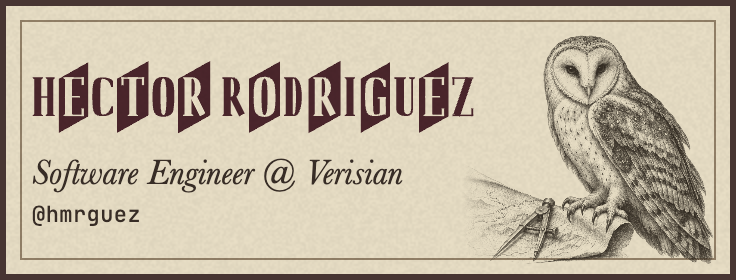
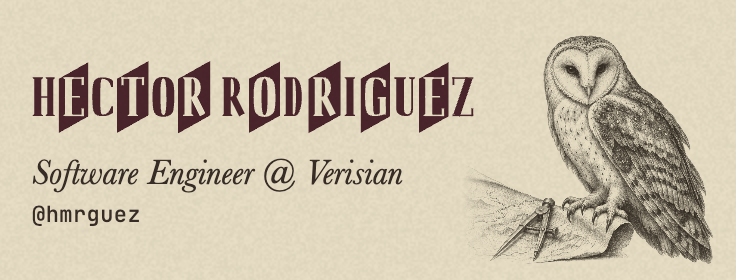
Remove the masthead frame on desktop and mobile

Changed region(s): [[0.0, 0.0, 1.0, 1.0]]

diff --git a/profile/cards.css b/profile/cards.css
@@ -53,22 +53,19 @@ h2 {
 .mast {
   height:204px;
   background:#e9dfc6;
-  padding:23px 31px;
-  border:5px solid #473532;
+  padding:28px 36px;
+  border:0;
 }
-.mast:before {
-  content:'';
-  position:absolute;
-  inset:7px;
-  border:1px solid #938168;
+.mast:after {
+  background-position:5px 5px;
 }
 .mast .owl {
   position:absolute;
   height:180px;
   width:294px;
   object-fit:contain;
-  right:20px;
-  bottom:9px;
+  right:25px;
+  bottom:14px;
 }
 .name {
   width:435px;
@@ -272,8 +269,10 @@ h2 {
 }
 .mast.mob {
   height:140px;
-  padding:21px 13px;
-  border-width:3px;
+  padding:24px 16px;
+}
+.mast.mob:after {
+  background-position:3px 3px;
 }
 .mast.mob .name {
   width:221px;
@@ -282,8 +281,8 @@ h2 {
 .mast.mob .owl {
   height:115px;
   width:131px;
-  right:3px;
-  bottom:5px;
+  right:6px;
+  bottom:8px;
   object-fit:cover;
   object-position:69%;
   mask-image:linear-gradient(to right,transparent,#000 17%);
